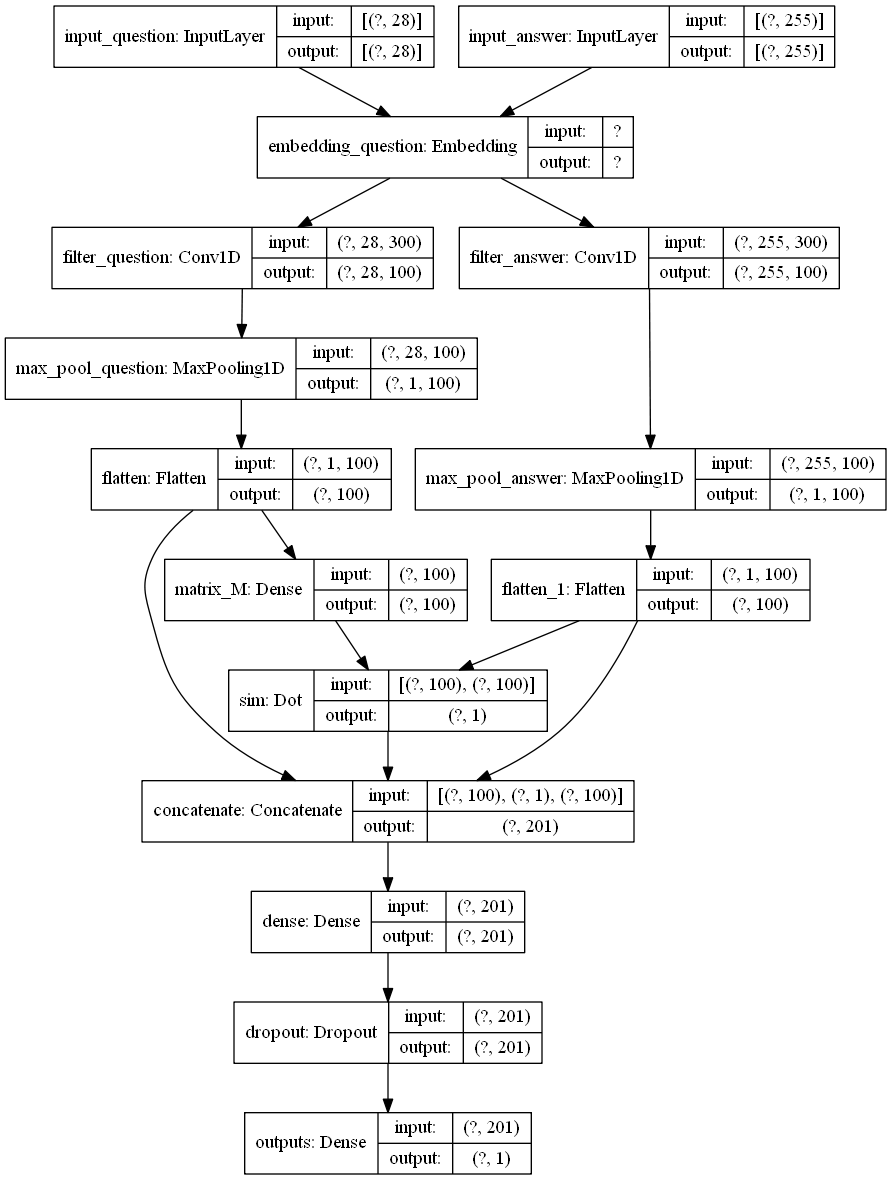
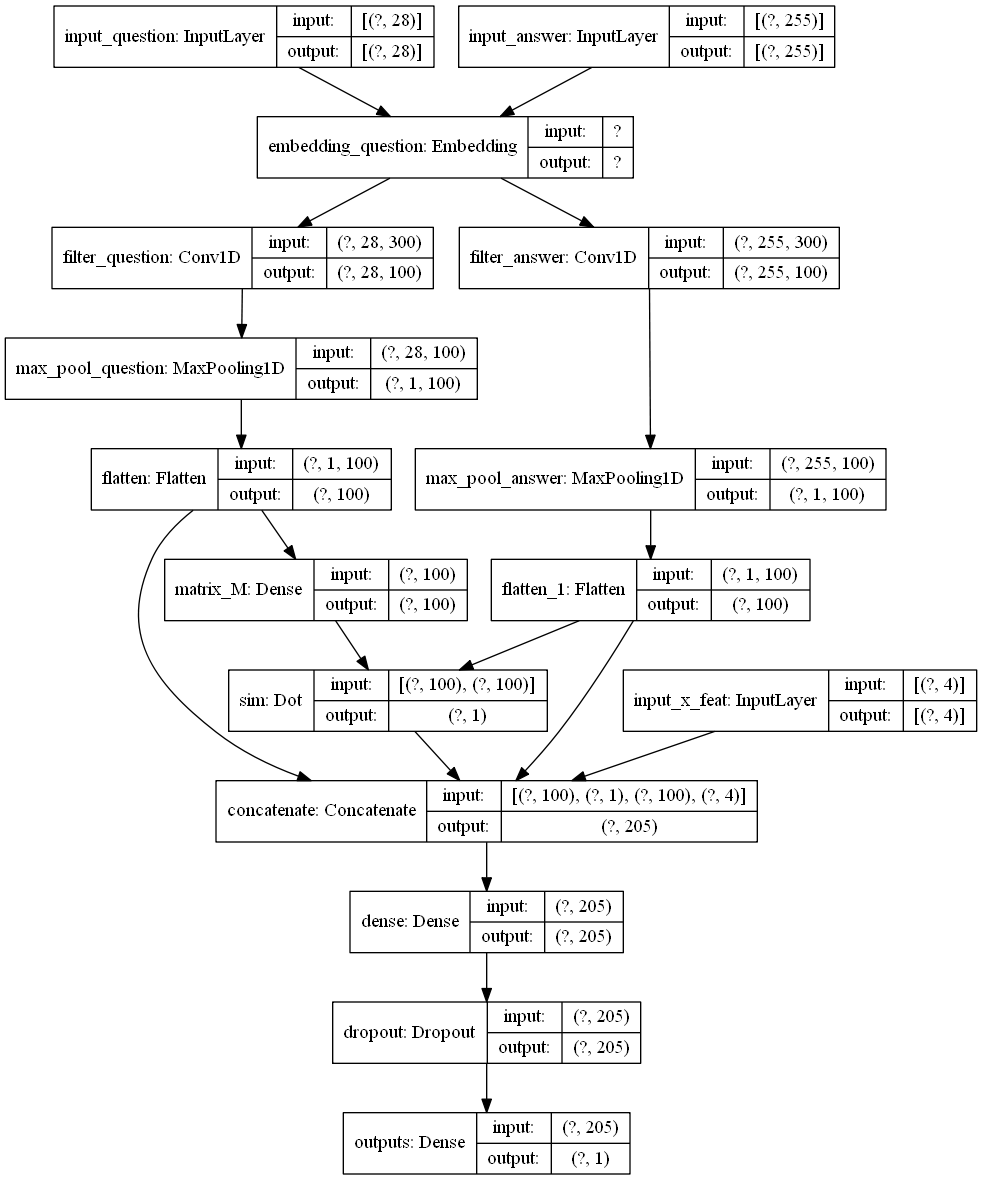
Additional_features

Changed region(s): [[0.0, 0.0, 1.0, 1.0]]

diff --git a/model.py b/model.py
@@ -21,6 +21,11 @@ def get_f1(y_true, y_pred):  # taken from old keras source code
 
 
 # Load data
+# train_question = load_data.train_question
+# train_answer = load_data.train_answer
+# train_label = load_data.train_label
+# train_x_feat = load_data.train_x_feat
+
 train_dataset = load_data.train_dataset
 test_dataset = load_data.test_dataset
 dev_dataset = load_data.dev_dataset
@@ -37,6 +42,7 @@ max_answer_len = load_data.max_answer_len
 
 inputs_question = keras.Input(shape=(max_question_len,), name="input_question")
 inputs_answer = keras.Input(shape=(max_answer_len,), name="input_answer")
+inputs_x_feat = keras.Input(shape=(4,), name="input_x_feat")
 
 embedding_dim = 300
 embedding_layer = layers.Embedding(vocab_size, embedding_dim,
@@ -59,12 +65,12 @@ flatten_layer_answer = layers.Flatten()(max_pool_layer_answer)
 matrix_m = layers.Dense(100, use_bias=False, name="matrix_M")(flatten_layer_question)
 sim = layers.Dot(axes=-1, name="sim")([matrix_m, flatten_layer_answer])
 
-concatenate_layer = layers.concatenate([flatten_layer_question, sim, flatten_layer_answer])
-fc_layer = layers.Dense(201, kernel_regularizer=regularizers.l2(1e-4))(concatenate_layer)
+concatenate_layer = layers.concatenate([flatten_layer_question, sim, flatten_layer_answer, inputs_x_feat])
+fc_layer = layers.Dense(205, kernel_regularizer=regularizers.l2(1e-4))(concatenate_layer)
 drop_out_layer = layers.Dropout(0.5)(fc_layer)
 outputs = layers.Dense(1, name="outputs")(drop_out_layer)
 
-model = keras.Model(inputs=[inputs_question, inputs_answer], outputs=[outputs], name="cnn_LTR")
+model = keras.Model(inputs=[inputs_question, inputs_answer, inputs_x_feat], outputs=[outputs], name="cnn_LTR")
 keras.utils.plot_model(model, "model.png", show_shapes=True)
 
 model.compile(optimizer='adam',
@@ -73,10 +79,10 @@ model.compile(optimizer='adam',
 #          keras.metrics.Recall(name='recall'),
 #          'accuracy'])
 
-model.fit(train_dataset, epochs=200,
-          validation_data=dev_dataset,
-          callbacks=keras.callbacks.EarlyStopping(monitor='val_loss', min_delta=0, patience=5, verbose=0, mode='min'),
-          verbose=1, shuffle=True)
+model.fit(train_dataset, epochs=10,
+          # validation_data=dev_dataset,
+          # callbacks=keras.callbacks.EarlyStopping(monitor='val_loss', min_delta=0, patience=5, verbose=2, mode='min'),
+          verbose=2, shuffle=True)
 
 # model.evaluate(test_dataset, verbose=2)
 
@@ -93,10 +99,11 @@ predictions = model.predict(test_dataset)
 test_label = load_data.test_label
 
 
-def takeFirst(elem):
+def take_first(elem):
     return elem[0]
 
 
+# Calculation MRR
 Start = 0
 MRR = 0
 for rgn in test_info:
@@ -104,14 +111,34 @@ for rgn in test_info:
     for idx in range(Start, Start + rgn):
         tmp.append([predictions[idx], test_label[idx]])
     Start = Start + rgn
-    tmp.sort(key=takeFirst, reverse=True)
-    print(tmp)
+    tmp.sort(key=take_first, reverse=True)
+    # print(tmp)
     for idx in range(0, len(tmp)):
         if tmp[idx][1] == [1]:
-            print(idx)
+            # print(idx)
             MRR = MRR + 1 / (idx + 1)
             break
-    print("\n")
+    # print("\n")
 
 MRR = MRR * (1 / len(test_info))
 print(MRR)
+
+# Calculation mAP
+Start = 0
+mAP = 0
+for rgn in test_info:
+    tmp = []
+    for idx in range(Start, Start + rgn):
+        tmp.append([predictions[idx], test_label[idx]])
+    Start = Start + rgn
+    tmp.sort(key=take_first, reverse=True)
+    Precision = 0
+    count_pos_answer = 0
+    for idx in range(0, len(tmp)):
+        if tmp[idx][1] == [1]:
+            count_pos_answer += 1
+            Precision = Precision + (count_pos_answer / (idx + 1))
+    mAP += (Precision / count_pos_answer)
+
+mAP = mAP * (1 / len(test_info))
+print(mAP)

diff --git a/load_data.py b/load_data.py
@@ -15,6 +15,11 @@ train_question, train_answer, train_label, train_info = data_helpers.create_data
 dev_question, dev_answer, dev_label, dev_info = data_helpers.create_data(dev_data_path)
 test_question, test_answer, test_label, test_info = data_helpers.create_data(test_data_path)
 
+# Create x_feat
+train_x_feat = data_helpers.get_x_feat(train_question, train_answer)
+dev_x_feat = data_helpers.get_x_feat(dev_question, dev_answer)
+test_x_feat = data_helpers.get_x_feat(test_question, test_answer)
+
 # Build vocab
 # vocab = set()
 # vocab.update(data_helpers.get_vocab(train_question, train_answer))
@@ -34,9 +39,6 @@ dev_answer = [encoder.encode(sent) for sent in dev_answer]
 test_question = [encoder.encode(sent) for sent in test_question]
 test_answer = [encoder.encode(sent) for sent in test_answer]
 
-# Undersampling
-# train_question, train_answer, train_label = data_helpers.undersampling(train_question, train_answer, train_label)
-
 # Padding sentences
 max_question_len = 28
 max_answer_len = 255
@@ -48,21 +50,24 @@ dev_question, dev_answer = data_helpers.padding_sent(dev_question, dev_answer, m
 test_question = np.asarray(test_question)
 test_answer = np.asarray(test_answer)
 test_label = np.asarray(test_label)
+test_x_feat = np.asarray(test_x_feat)
 
 train_question = np.asarray(train_question)
 train_answer = np.asarray(train_answer)
 train_label = np.asarray(train_label)
+train_x_feat = np.asarray(train_x_feat)
 
 dev_question = np.asarray(dev_question)
 dev_answer = np.asarray(dev_answer)
 dev_label = np.asarray(dev_label)
+dev_x_feat = np.asarray(dev_x_feat)
 
 # Numpy array to Dataset
 BUFFER_SIZE = 60000
 BATCH_SIZE = 64
 train_dataset = tf.data.Dataset.from_tensor_slices(
     (
-        {"input_question": train_question, "input_answer": train_answer},
+        {"input_question": train_question, "input_answer": train_answer, "input_x_feat": train_x_feat},
         {"outputs": train_label},
     )
 )
@@ -72,35 +77,18 @@ train_dataset = train_dataset.batch(BATCH_SIZE)
 
 dev_dataset = tf.data.Dataset.from_tensor_slices(
     (
-        {"input_question": dev_question, "input_answer": dev_answer},
+        {"input_question": dev_question, "input_answer": dev_answer, "input_x_feat": dev_x_feat},
         {"outputs": dev_label},
     )
 )
 dev_dataset = dev_dataset.shuffle(BUFFER_SIZE, reshuffle_each_iteration=False)
 dev_dataset = dev_dataset.batch(BATCH_SIZE)
 
-# for idx in range(0, len(test_label)):
-#     print(encoder.decode(test_question[idx]))
-#     print(encoder.decode(test_answer[idx]))
-#     print("\n")
-
 test_dataset = tf.data.Dataset.from_tensor_slices(
     (
-        {"input_question": test_question, "input_answer": test_answer},
+        {"input_question": test_question, "input_answer": test_answer, "input_x_feat": test_x_feat},
         {"outputs": test_label},
     )
 )
 # test_dataset = test_dataset.shuffle(BUFFER_SIZE, reshuffle_each_iteration=False)
 test_dataset = test_dataset.batch(BATCH_SIZE)
-
-# a = []
-# a.append([0.2, 1])
-# a.append([0.50001, 1])
-# a.append([0.50000001, 0])
-# a.append([0.50000001, 1])
-# a.append([0.1, 1])
-# a.append([0.5, 0])
-# a.sort(key=takeFirst, reverse=True)
-# # a = np.asarray(a)
-# # a = np.sort(a, axis=0)
-# print(a)

diff --git a/data_helpers.py b/data_helpers.py
@@ -2,6 +2,10 @@ import re
 
 import numpy as np
 import tensorflow_datasets as tfds
+from nltk.corpus import stopwords
+from sklearn.feature_extraction.text import TfidfVectorizer
+
+en_stops = set(stopwords.words('english'))
 
 
 def clean_str(string):
@@ -127,7 +131,7 @@ def padding_sent(question, answer, max_answer_len, max_question_len):
 #     return question, answer, label
 
 
-def undersampling(question, answer, label):
+def under_sampling(question, answer, label):
     under_question = []
     under_answer = []
     under_label = []
@@ -150,13 +154,54 @@ def undersampling(question, answer, label):
     return under_question, under_answer, under_label
 
 
-def shuffle_data(question, answer, label):
+def shuffle_data(question, answer, label, x_feat):
     shuffle_indices = np.random.permutation(np.arange(len(question)))
     shuffle_question = []
     shuffle_answer = []
     shuffle_label = []
+    shuffle_x_feat = []
     for idx in shuffle_indices:
         shuffle_question.append(question[idx])
         shuffle_answer.append(answer[idx])
         shuffle_label.append(label[idx])
-    return shuffle_question, shuffle_answer, shuffle_label
+        shuffle_x_feat.append(x_feat[idx])
+    return shuffle_question, shuffle_answer, shuffle_label, shuffle_x_feat
+
+
+def get_x_feat(question, answer):
+    x_feat = []
+    for idx in range(0, len(question)):
+        corpus = [question[idx], answer[idx]]
+        vectorizer = TfidfVectorizer()
+        score = vectorizer.fit_transform(corpus).toarray()
+        words_list = vectorizer.get_feature_names()
+        all_words = nonstop_words = 0
+        score_all_words = score_nonstop_words = 0
+        # question_score_all_words = []
+        # answer_score_all_words = []
+        # question_score_nonstop_words = []
+        # answer_score_nonstop_words = []
+        for pos in range(0, len(words_list)):
+            word = words_list[pos]
+            if word in question[idx] and word in answer[idx]:
+                all_words += 1
+                score_all_words += score[1][pos]
+                # question_score_all_words.append(score[0][pos])
+                # answer_score_all_words.append(score[1][pos])
+                if word not in en_stops:
+                    nonstop_words += 1
+                    score_nonstop_words += score[1][pos]
+                    # question_score_nonstop_words.append(score[0][pos])
+                    # answer_score_nonstop_words.append(score[1][pos])
+        # if len(question_score_all_words) == 0:
+        #     score_all_words = 0
+        # else:
+        #     score_all_words = 1 - cosine(question_score_all_words, answer_score_all_words)
+        #
+        # if len(question_score_nonstop_words) == 0:
+        #     score_nonstop_words = 0
+        # else:
+        #     score_nonstop_words = 1 - cosine(question_score_nonstop_words, answer_score_nonstop_words)
+
+        x_feat.append([all_words, score_all_words, nonstop_words, score_nonstop_words])
+    return x_feat
